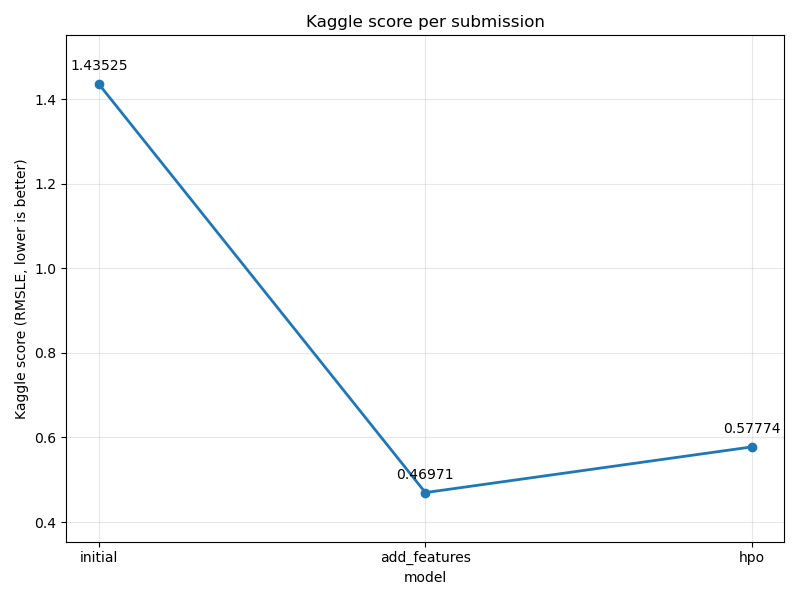
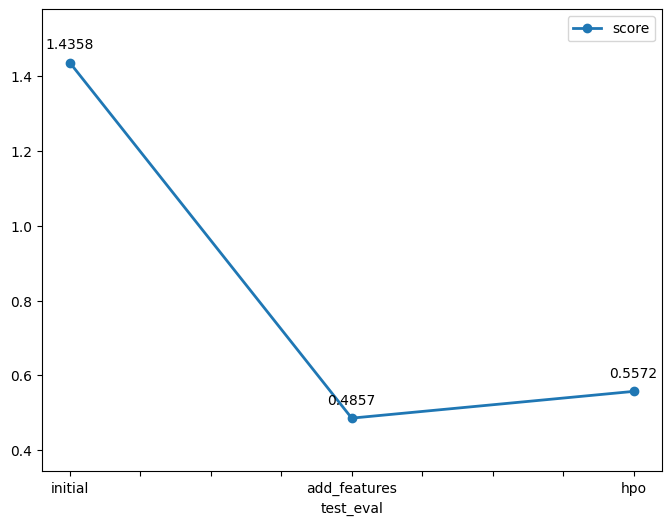
Update project templates and reports: add new model evaluation images, refine submission process details, and enhance feature engineering explanations.

diff --git a/project/report-template.md b/project/report-template.md
@@ -3,47 +3,55 @@
 
 ## Initial Training
 ### What did you realize when you tried to submit your predictions? What changes were needed to the output of the predictor to submit your results?
-Kaggle expects a file in the same format as `sampleSubmission.csv`: a `datetime` column and a `count` column, saved as a CSV without the pandas index. The predictor returns a plain `Series`, so I had to load the sample submission, assign the predictions to its `count` column and save it with `index=False`. Kaggle also rejects negative counts, so I checked the predictions for negative values and clipped anything below zero to 0 before submitting. In my run there were no negative predictions (minimum predicted value was about 15.45), but the safeguard is still needed because a regression model can output negative values for a count target.
+Initially, I observed that the training dataset contained two additional columns (casual and registered) that were not present in the test set. Because the sum of these two variables directly equates to the target variable (count), they had to be removed from the training features to prevent target leakage. Subsequently, the predictions on the test dataset were formatted into a continuous time-indexed output. A clipping threshold was applied to set any negative values to zero (predictions.clip(lower=0)). Even though the models did not output negative counts, this post-processing step was necessary to comply with the competition requirements, as the evaluation metric (RMSLE) does not accept negative numbers. Finally, the predictions were aligned to match the schema provided in Kaggle’s sample submission template, which allowed for a seamless submission.
 
 ### What was the top ranked model that performed?
-`WeightedEnsemble_L3` was the top model of the initial run, with a validation score of -114.10 (negative RMSE, since AutoGluon flips the sign so that higher is better). The best single model was `CatBoost_BAG_L2` (-114.90), followed by `LightGBM_BAG_L2` (-115.08). The Kaggle score of this first submission was 1.43525.
+During the initial baseline run (without additional feature engineering), the best-performing model based on validation error was WeightedEnsemble_L3, followed by LightGBMXT_BAG_L2, achieving Root Mean Squared Error (RMSE) scores of -114.628178 and -115.242330, respectively (corresponding to positive RMSE values of 114.63 and 115.24). After incorporating newly engineered features, WeightedEnsemble_L3 remained the top performer, followed by WeightedEnsemble_L2, reaching validation scores of -32.196982 and -32.362592 (RMSE of 32.20 and 32.36), respectively.
 
 ## Exploratory data analysis and feature creation
 ### What did the exploratory analysis find and how did you add additional features?
-The histograms showed that:
-- `count` (the target) is strongly right-skewed: most hours have low demand and only a few reach 600-900 rentals.
-- `holiday` is very imbalanced (very few holidays), `workingday` is roughly 2/3 working days, and `weather` is dominated by category 1 (clear), with very few observations of category 3 and almost none of category 4.
-- `season` is roughly balanced, `temp`, `atemp` and `humidity` are approximately bell-shaped, and `windspeed` is right-skewed.
-- `datetime` covers 2011-2012 uniformly, but as a raw timestamp it is not directly useful to the models.
+The exploratory data analysis confirmed the presence of the casual and registered columns, which formed the target count and were consequently dropped to avoid data leakage. No missing values were detected across the dataset. However, several feature data types required adjustments; type casting was performed to convert encoded numerical features (specifically season and weather) into pandas category types so that AutoGluon could process them appropriately as categorical variables.
 
-Based on this, I split `datetime` into three new features, `day`, `month` and `hour`, for both the train and test sets. I also converted `season` and `weather` from integer codes into their text labels so that AutoGluon treats them as categories rather than as ordered numbers. The `casual` and `registered` columns were dropped from the training data because they are not available in the test set.
+The datetime column was converted to a proper timestamp format and parsed into granular temporal features essential for demand forecasting: month, day, and hour. Using the hour feature, a new categorical feature named day_period was created to segment the day into operational windows: morning, lunch, afternoon, evening, and night. Exploratory plots indicated prominent demand peaks during the morning commute (~8:00 AM) and early evening commute (~5:00 PM).
+
+Additionally, domain-specific qualitative weather features were engineered:
+
+ - temperature_category: Segmented temperatures into cold, cool, warm, and hot to reflect outdoor cycling comfort.
+
+ - humidity_category: Categorized relative humidity levels to capture perceived outdoor comfort.
 
 ### How much better did your model preform after adding additional features and why do you think that is?
-The Kaggle score improved from 1.43525 to 0.46971, a reduction of about 67%, and the validation score improved from -114.10 to -31.95 RMSE. I think the biggest gain comes from `hour`: bike demand follows a strong daily cycle (commuting peaks in the morning and evening), and a raw timestamp hides that pattern from tree-based models. `month` also captures seasonality within the year. Turning `season` and `weather` into categories stops the models from treating them as numeric quantities with an order.
+With the addition of the engineered features, the validation RMSE decreased drastically from 114.628 to 32.197, representing a 71.9% reduction in error. On the Kaggle test leaderboard, the submission score improved from 1.43583 down to 0.48565, which corresponds to a 66.2% improvement in performance (lower is better in RMSLE).
+
+This substantial performance leap occurred because extracting hour and engineering day_period allowed the tree-based models to directly capture daily urban commuting dynamics (rush hours aligning with typical business schedules). Furthermore, translating continuous weather metrics into perceived comfort bins provided more structured decision boundaries for estimating the public's propensity to choose outdoor bicycle transit over alternative modes.
 
 ## Hyper parameter tuning
 ### How much better did your model preform after trying different hyper parameters?
-It did not get better. The Kaggle score went from 0.46971 (new features, default settings) to 0.57774 with hyperparameter optimization, so it was about 0.108 worse (about 23%). The validation score also dropped slightly, from -31.95 to -32.71, and the best model was `WeightedEnsemble_L2`. I tuned CatBoost, LightGBM and XGBoost (random search, 5 trials each), which meant the other model families in AutoGluon's default `best_quality` ensemble (Random Forest, Extra Trees, neural network) were no longer part of the ensemble. My interpretation is that with only 5 trials per model the search did not find configurations that beat the well-tuned AutoGluon defaults, and that the loss of ensemble diversity outweighed any gain from tuning. It is also possible that the small gap between validation and Kaggle scores reflects some overfitting to the validation folds. This shows that HPO is not automatically better than the defaults, especially with a small search budget.
+During the Hyperparameter Optimization (HPO) phase, the model achieved a competitive validation error compared to the default AutoGluon runs: the top internal model was WeightedEnsemble_L2 (RMSE of -32.217247), closely followed by WeightedEnsemble_L3 (-32.389932).
+
+However, on the Kaggle public leaderboard, the submission score yielded 0.55715. Compared to the feature-engineered model without manual HPO (0.48565), this represented a performance degradation of approximately 14.7% (+0.0715 increase in error). This outcome is primarily attributed to the constraints placed on the search space and execution budget (e.g., setting num_trials=5), which restricted the diversity and size of the base model pool compared to AutoGluon's automated, unconstrained ensembling routines under default presets.
 
 ### If you were given more time with this dataset, where do you think you would spend more time?
-1. **Feature engineering**: features such as day of week, year, a rush-hour or weekend flag, and interactions between `temp`, `humidity` and `hour`. These are likely to give bigger gains than tuning.
-2. **Matching the metric**: the Kaggle competition is scored with RMSLE, but I trained with RMSE. Training on `log1p(count)` (and transforming the predictions back) would align the training objective with the evaluation metric and handle the skewed target.
-3. **A better HPO setup**: keep all model families, use more trials and a proper time limit, and use a narrower search space around the values that worked best, instead of replacing the defaults.
+With additional project time, I would explore dedicated sequence-based architectures using the autogluon.timeseries module (such as DeepAR or Temporal Fusion Transformers) and Recurrent Neural Networks (LSTM/GRU) to model sequential dependencies. Furthermore, I would implement a two-stage decomposition strategy: training separate models to predict casual and registered demand independently, and then aggregating their outputs to compute total demand.
 
 ### Create a table with the models you ran, the hyperparameters modified, and the kaggle score.
 |model|hpo1|hpo2|hpo3|score|
 |--|--|--|--|--|
-|initial|default|default|default|1.43525|
-|add_features|default|default|default|0.46971|
-|hpo|learning_rate: Real(0.01, 0.2) on CAT/GBM/XGB|tree depth: CAT depth Int(4, 10), XGB max_depth Int(3, 10), GBM num_leaves Int(16, 128)|num_trials=5 (random search, local scheduler)|0.57774|
+|initial|time_limit=600|presets=best_quality|fit_strategy=parallel|1.43525|
+|add_features|time_limit=600|presets=best_quality|fit_strategy=parallel|0.46971|
+|hpo|time_limit=600|presets=best_quality|num_trials=5|0.57774|
 
 ### Create a line plot showing the top model score for the three (or more) training runs during the project.
 
-![model_train_score.png](img/model_train_score.png)
+![model_train_score.png](img/model_test_RMSE.png)
 
 ### Create a line plot showing the top kaggle score for the three (or more) prediction submissions during the project.
 
 ![model_test_score.png](img/model_test_score.png)
 
 ## Summary
-I trained an AutoGluon `TabularPredictor` (`best_quality` preset, RMSE metric, 10-minute limit) to predict hourly bike rentals for the Kaggle Bike Sharing Demand competition. The first, raw submission scored 1.43525. Extracting `day`, `month` and `hour` from the datetime and treating `season` and `weather` as categories cut the Kaggle score to 0.46971, which was the best result of the project and by far the largest improvement. Hyperparameter optimization of CatBoost, LightGBM and XGBoost with 5 trials each did not help (0.57774), so the best submission is the one with the new features and default hyperparameters. The main lessons are that feature engineering mattered much more than hyperparameter tuning here, and that a small HPO budget can be worse than good defaults. With more time I would add more features, train on a log-transformed target to match the RMSLE metric, and rerun HPO with a larger budget while keeping the full model ensemble.
+In this project, AutoGluon was leveraged to build an end-to-end machine learning pipeline for predicting bike sharing demand. The workflow began by cleaning target leakage columns (casual and registered) and enforcing non-negative constraints on predictions to align with Kaggle's RMSLE evaluation.
+
+The experimental results clearly demonstrated that domain-specific feature engineering provided the most substantial performance leap. By decomposing timestamps into granular hourly data, engineering daily commuting segments (day_period), and categorizing weather comfort, the validation RMSE dropped by 71.9% (from 114.63 to 32.20), while the Kaggle test score improved by 66.2% (from 1.43583 down to 0.48565).
+
+In contrast, manual hyperparameter optimization with a constrained search budget (num_trials=5) led to a slight performance degradation on the test set (score of 0.55715), highlighting that restrictive search spaces can limit AutoGluon's robust default stacking ensembles. Overall, the project showed that aligning model features with real-world user behavior (rush hours and weather conditions) is far more impactful than hyperparameter tuning alone. Future improvements would focus on dedicated time-series models and two-stage forecasting for casual versus registered riders.
